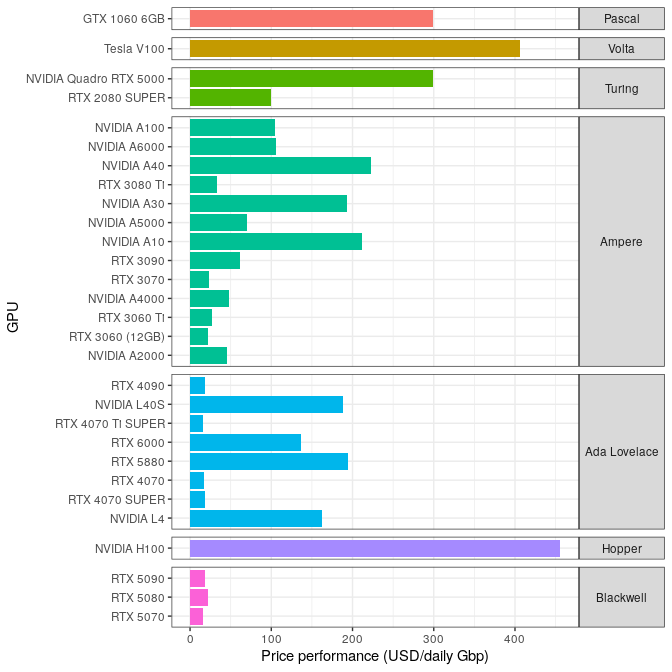
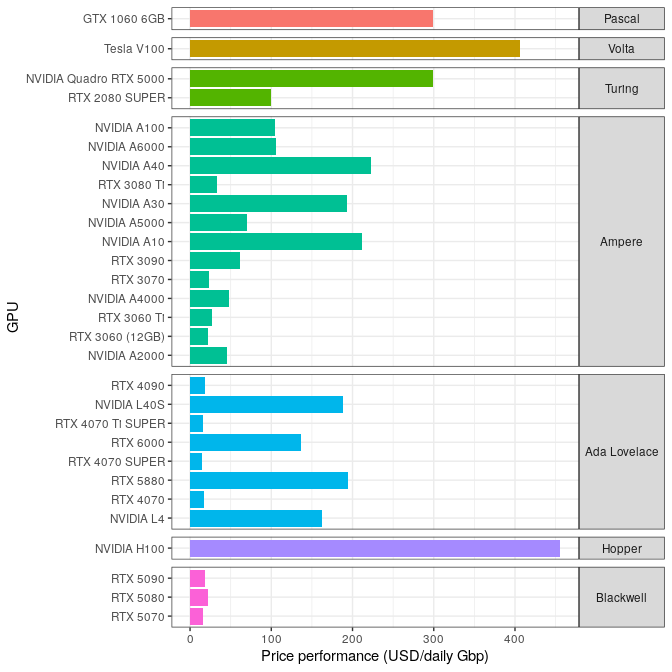
added 4070 Super dorado 1.0.2

Changed region(s): [[0.2812, 0.6562, 0.5312, 0.75], [0.0938, 0.6562, 0.25, 0.75]]

diff --git a/README.md b/README.md
@@ -1,7 +1,7 @@
 README
 ================
 Rasmus Kirkegaard
-17 June, 2025
+19 June, 2025
 
 ## Aim
 
